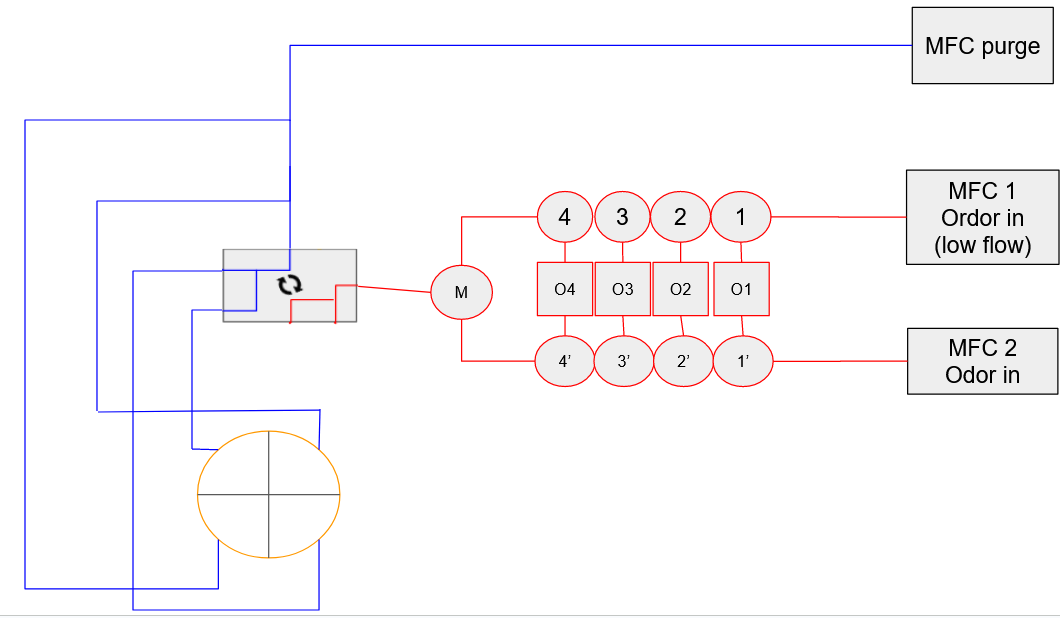
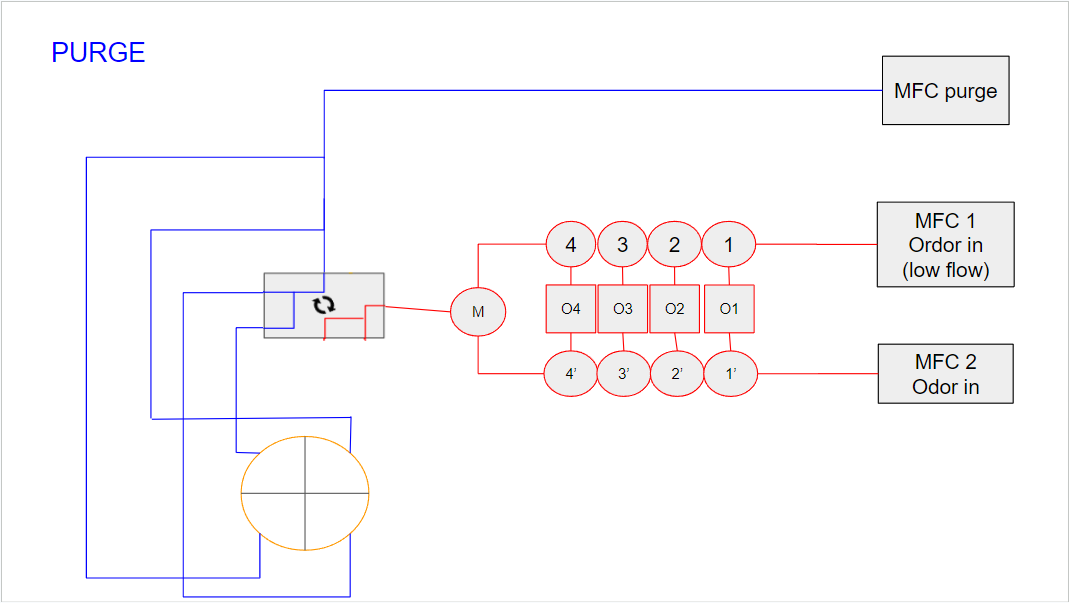
Adjustement on code and comments added

diff --git a/gui/Fly_Arena_GUIs/odor_circuit/odor_circuit_arduino_gui.py b/gui/Fly_Arena_GUIs/odor_circuit/odor_circuit_arduino_gui.py
@@ -35,7 +35,7 @@ import os
 import time
 
 import numpy as np
-from PyQt5.QtCore import QTimer
+from PyQt5.QtCore import QTimer, Qt
 from PyQt5.QtGui import QPixmap
 from matplotlib import pyplot as plt
 from qtpy import QtWidgets, uic, QtCore
@@ -166,6 +166,8 @@ class OdorCircuitGUI(GUIBase):
 
         self.pixmap1 = QPixmap(self._Fluidics_on_path)
         self.pixmap2 = QPixmap(self._Fluidics_off_path)
+        self.pixmap1 = self.pixmap1.scaled(1101, 651, Qt.KeepAspectRatio)
+        self.pixmap2 = self.pixmap2.scaled(1101, 651, Qt.KeepAspectRatio)
 
     def on_activate(self):
         """ Initialize all UI elements and establish signal connections.

diff --git a/gui/Fly_Arena_GUIs/optogenetic/optogenetic_gui.py b/gui/Fly_Arena_GUIs/optogenetic/optogenetic_gui.py
@@ -164,7 +164,7 @@ class OptogeneticGUI(GUIBase):
         """
         self.p = True
         self._optogenetic_logic.forward()
-        self._ow.toggleButton.setText('Turn off')
+        self._ow.toggleButton.setText('Close')
 
     def backward(self):
         """
@@ -172,7 +172,7 @@ class OptogeneticGUI(GUIBase):
         """
         self.p = False
         self._optogenetic_logic.backward()
-        self._ow.toggleButton.setText('Turn on')
+        self._ow.toggleButton.setText('Open')
 
     def noirdisplay(self):
         """

diff --git a/hardware/motor/motorFlyArena/motor_FlyArena.py b/hardware/motor/motorFlyArena/motor_FlyArena.py
@@ -78,6 +78,9 @@ class MotorControl(Base):
             print("No response received")
 
     def send_command(self, command):
+        """
+        Allows the command to be set if the elegoo was deconnected and reconnected
+        """
         try:
             self.command(command)
         except serial.SerialException as e:

diff --git a/hardware/MFC/MFC.py b/hardware/MFC/MFC.py
@@ -49,7 +49,6 @@ class MFC(Base):
     _MFC_1_flow = ConfigOption('MFC_1_flow', 0.04)
     _MFC_2_flow = ConfigOption('MFC_2_flow', 0.26)
 
-
     def __init__(self, config, **kwargs):
         super().__init__(config=config, **kwargs)
 
